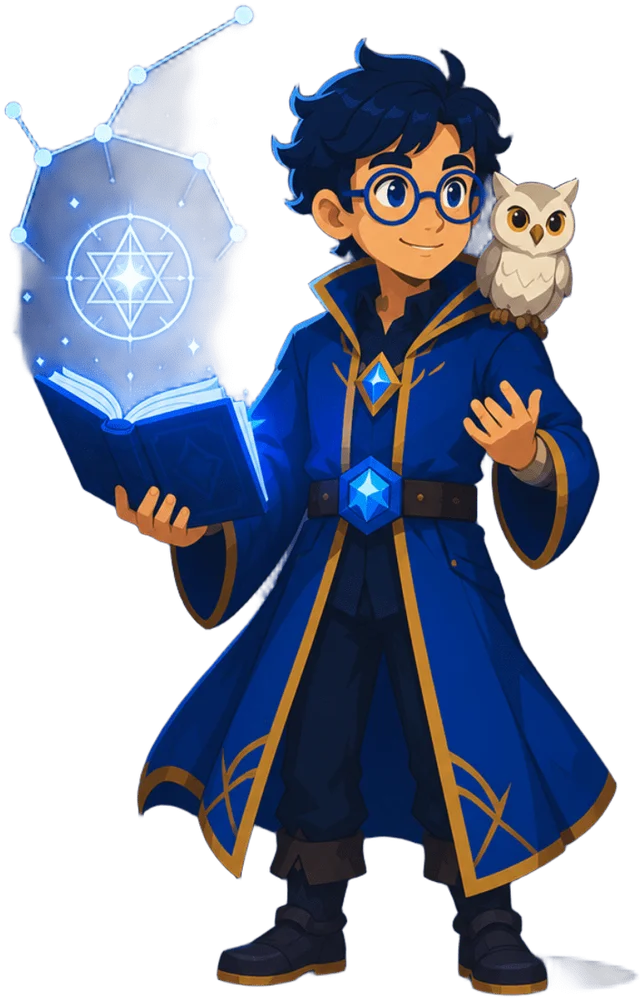
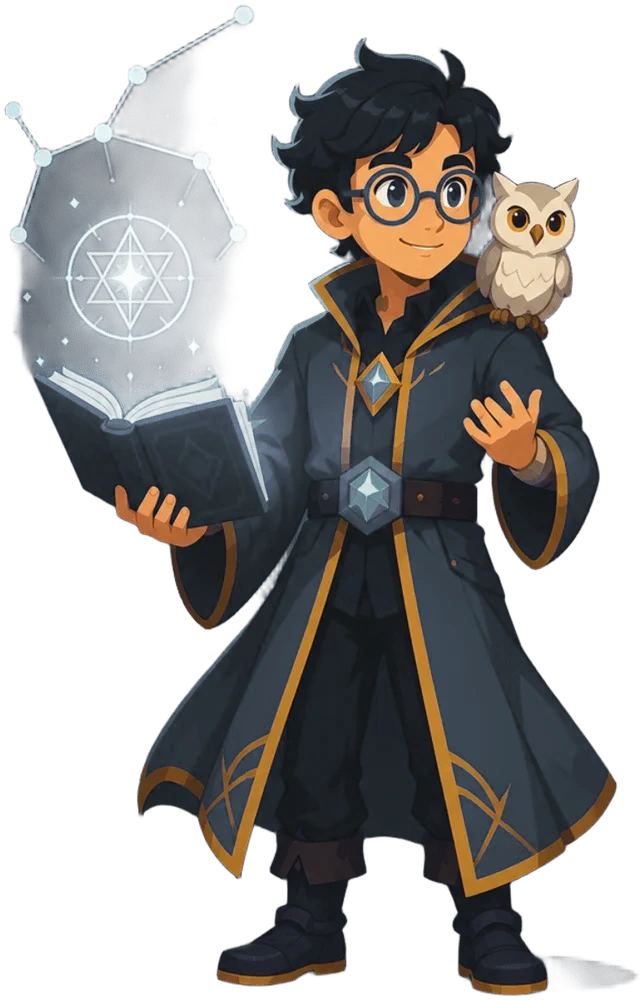
fix(guias): corrige nome/genero/etnia dos guias BrainHex e traduz labels da secao Guardioes
Os nomes dos guias (definidos em microservice/src/constants/brainHex.ts,
fonte oficial, e espelhados em api/, mobile/ e frontend/) nao combinavam
com a arte real dos personagens em genero nem em etnia/cultura sugerida
pelo visual — eram nomes greco-romanos/nordicos genericos escolhidos antes
da arte definitiva existir:

- mastermind (menino, estudioso): Atena (nome feminino) -> Idris
- seeker (menina, locs): Orion (nome masculino) -> Amara
- survivor (menino, monge oriental): Valka (tipicamente feminino) -> Kenji
- daredevil (menina, magia de fogo): Rexa (feminizacao estranha de "Rex") -> Ember
- conqueror (menina, rainha guerreira): Drako (nome masculino) -> Amina
- socializer (menino, bardo): Luma (nome de leitura feminina) -> Mateo
- achiever (menino, cavaleiro): Auri (ambiguo) -> Kwame

Corrigido em todas as fontes: microservice/src/constants/brainHex.ts
(oficial), api/app/services/personalizacao.py (_BRAINHEX_GUIDE_PERSONAS),
api/app/services/media_agents.py (_BRAINHEX_GUIDE_CONFIG), os dois prompts
estaticos (gerador_conteudo.txt, pipeline_midia_etapas.txt), os testes que
comparam esses valores, mobile/src/constants/profileImages.ts
(brainHexGuideNames) e frontend (BrainHexShowcase.tsx). O titulo do
Mastermind tambem mudou de "A Sabia das Constelacoes" para "O Sabio das
Constelacoes" (e os tracos de Analitica/Estrategica/Profunda para a forma
masculina) — era o unico titulo com genero errado, os outros ja batiam.
[…]

diff --git a/frontend/src/features/signup/brainhex.ts b/frontend/src/features/signup/brainhex.ts
@@ -215,12 +215,18 @@ export function isAllAnswered(answers: BrainHexAnswers) {
 // paleta (script com sharp: hue-shift so nos pixels do figurino/manto,
 // identificados por faixa de matiz+saturacao, preservando pele/cabelo/dourado
 // intactos) — nao o contrario. Isso foi feito para seeker, survivor,
-// conqueror e socializer. daredevil ficou de fora: na arte dela o cabelo e a
-// capa usam exatamente o mesmo laranja (mesma faixa de matiz/saturacao), e
-// tentar isolar so a capa por hue tambem pintou a pele e o efeito de fogo de
-// verde — sem uma mascara manual do figurino essa recolorizacao nao e segura
-// de automatizar, entao o badge dela ainda diverge da arte (oficial=verde,
-// arte=laranja) ate a arte ser re-gerada.
+// conqueror, socializer e mastermind (nesse ultimo o matiz ja estava certo,
+// so a saturacao precisou baixar — a arte usava um azul vivido, o oficial e
+// um azul-acinzentado quase neutro).
+//
+// daredevil e a unica excecao: na arte dela o cabelo e a capa usam
+// exatamente a mesma faixa de matiz/saturacao (o tema "fogo laranja" e
+// deliberado nos dois), e qualquer recorte automatico (por matiz, por
+// posicao, ou flood-fill por similaridade local) ou pintou a pele/efeito de
+// fogo de verde ou selecionou o personagem inteiro (a arte tem gradientes
+// suaves demais para o flood-fill parar nas bordas certas). Sem uma mascara
+// manual do figurino isso nao e seguro de automatizar — entao aqui o badge
+// segue a arte (laranja), nao o hex oficial (verde), por pedido direto.
 // Luminosidade HSL elevada apenas o suficiente para ~4.5:1 de contraste
 // contra o fundo escuro do site — matiz e saturação da cor oficial ficam
 // intactos (mesmo principio de _ensure_min_contrast em
@@ -242,7 +248,7 @@ export const PROFILES = {
   },
   survivor: {
     key: "survivor",
-    title: "Survivor (Desafiador)",
+    title: "Survivor (Sobrevivente)",
     icon: Shield,
     color: "text-[#fb0202] bg-[#fb0202]/10 border-[#fb0202]/20",
     textColor: "text-[#fb0202]",
@@ -254,10 +260,12 @@ export const PROFILES = {
     key: "daredevil",
     title: "Daredevil (Aventureiro)",
     icon: Sword,
-    color: "text-[#249024] bg-[#249024]/10 border-[#249024]/20",
-    textColor: "text-[#249024]",
-    bgColor: "bg-[#249024]",
-    cardStyle: "bg-[#249024]/10 border-[#249024]/20",
+    // Excecao: segue a cor da arte (laranja-fogo), nao o hex oficial
+    // (verde) — ver comentario acima do PROFILES.
+    color: "text-[#ec3c04] bg-[#ec3c04]/10 border-[#ec3c04]/20",
+    textColor: "text-[#ec3c04]",
+    bgColor: "bg-[#ec3c04]",
+    cardStyle: "bg-[#ec3c04]/10 border-[#ec3c04]/20",
     text: "Gosta de ação e risco. Prefere aprender por tentativa e erro, com exploração rápida e sem medo de falhar.",
   },
   mastermind: {
@@ -272,7 +280,7 @@ export const PROFILES = {
   },
   conqueror: {
     key: "conqueror",
-    title: "Conqueror (Competidor)",
+    title: "Conqueror (Conquistador)",
     icon: Crown,
     color: "text-[#018e9a] bg-[#018e9a]/10 border-[#018e9a]/20",
     textColor: "text-[#018e9a]",
@@ -282,7 +290,7 @@ export const PROFILES = {
   },
   socializer: {
     key: "socializer",
-    title: "Socializer (Colaborador)",
+    title: "Socializer (Socializador)",
     icon: Drama,
     color: "text-[#aa60ed] bg-[#aa60ed]/10 border-[#aa60ed]/20",
     textColor: "text-[#aa60ed]",
@@ -292,7 +300,7 @@ export const PROFILES = {
   },
   achiever: {
     key: "achiever",
-    title: "Achiever (Completionista)",
+    title: "Achiever (Realizador)",
     icon: Box,
     color: "text-[#ba863f] bg-[#ba863f]/10 border-[#ba863f]/20",
     textColor: "text-[#ba863f]",

diff --git a/frontend/src/components/BrainHexShowcase.tsx b/frontend/src/components/BrainHexShowcase.tsx
@@ -17,49 +17,49 @@ import daredevilArt from "@/assets/guardioes/daredevil.webp";
 // poster oficial "Os Guardioes da Trilha" fornecido pelo usuario.
 const GUIDES: Record<string, { name: string; title: string; quote: string; art: string; traits: string[] }> = {
   mastermind: {
-    name: "Atena",
-    title: "A Sábia das Constelações",
+    name: "Idris",
+    title: "O Sábio das Constelações",
     quote: "Toda pergunta certa já contém metade da resposta.",
     art: mastermindArt,
-    traits: ["Analítica", "Estratégica", "Profunda"],
+    traits: ["Analítico", "Estratégico", "Profundo"],
   },
   achiever: {
-    name: "Auri",
+    name: "Kwame",
     title: "O Cavaleiro Solar",
     quote: "Cada marco conquistado abre o próximo caminho.",
     art: achieverArt,
     traits: ["Focado", "Disciplinado", "Determinado"],
   },
   seeker: {
-    name: "Orion",
+    name: "Amara",
     title: "A Guardiã das Runas",
     quote: "Todo mapa esconde uma pergunta melhor que a resposta.",
     art: seekerArt,
     traits: ["Curiosa", "Exploradora", "Intuitiva"],
   },
   survivor: {
-    name: "Valka",
+    name: "Kenji",
     title: "O Guardião da Montanha",
     quote: "Sobreviver é ter um plano B. Redundância não é desperdício.",
     art: survivorArt,
     traits: ["Paciente", "Resiliente", "Confiável"],
   },
   conqueror: {
-    name: "Drako",
+    name: "Amina",
     title: "A Rainha da Tempestade",
     quote: "Não existe segundo lugar na sua própria jornada.",
     art: conquerorArt,
     traits: ["Líder", "Competitiva", "Determinada"],
   },
   socializer: {
-    name: "Luma",
+    name: "Mateo",
     title: "O Espírito da Aurora",
     quote: "Ninguém chega longe sozinho — nem mesmo você.",
     art: socializerArt,
     traits: ["Comunicativo", "Empático", "Inspirador"],
   },
   daredevil: {
-    name: "Rexa",
+    name: "Ember",
     title: "A Fênix do Caos",
     quote: "Hesitar é a única forma de perder.",
     art: daredevilArt,
@@ -71,6 +71,14 @@ const PROFILE_LIST = Object.values(PROFILES);
 
 function extractHex(twClass: string): string {
   return twClass.match(/#[0-9a-fA-F]{6}/)?.[0] ?? "#a78c07";
+}
+
+// "Seeker (Explorador)" -> "EXPLORADOR". A tradução PT-BR fica entre
+// parenteses no title (mesmo texto do campo `label` oficial de
+// microservice/src/constants/brainHex.ts) — usada aqui em vez do nome em
+// ingles para o rotulo do guardiao na secao publica.
+function extractPtLabel(title: string): string {
+  return (title.match(/\(([^)]+)\)/)?.[1] ?? title).toUpperCase();
 }
 
 const BrainHexShowcase = () => {
@@ -269,7 +277,7 @@ function GuardianButton({
         className="relative mt-2 text-xs sm:text-sm font-bold uppercase tracking-wide transition-colors duration-700"
         style={{ color: isActive ? color : "rgba(245,240,255,0.55)" }}
       >
-        {profile.title.split(" ")[0]}
+        {extractPtLabel(profile.title)}
       </span>
     </button>
   );

diff --git a/microservice/src/constants/brainHex.ts b/microservice/src/constants/brainHex.ts
@@ -40,7 +40,7 @@ export const BRAIN_HEX_CONFIG: Record<BrainHexProfile, BrainHexConfig> = {
     icon: Map,
     iconFocus: Telescope,
     label: "Explorador",
-    guideName: "Orion",
+    guideName: "Amara",
     gradient: "from-yellow-600/20 to-amber-900/20",
     description: "Ama descobrir novos caminhos e segredos escondidos.",
   },
@@ -49,7 +49,7 @@ export const BRAIN_HEX_CONFIG: Record<BrainHexProfile, BrainHexConfig> = {
     icon: Shield,
     iconFocus: Crosshair,
     label: "Sobrevivente",
-    guideName: "Valka",
+    guideName: "Kenji",
     gradient: "from-red-900/40 to-black",
     description: "Foca em superar desafios e proteger o que conquistou.",
   },
@@ -58,7 +58,7 @@ export const BRAIN_HEX_CONFIG: Record<BrainHexProfile, BrainHexConfig> = {
     icon: Sword,
     iconFocus: Skull,
     label: "Aventureiro",
-    guideName: "Rexa",
+    guideName: "Ember",
     gradient: "from-green-900/40 to-black",
     description: "Vive pela adrenalina e riscos calculados.",
   },
@@ -67,7 +67,7 @@ export const BRAIN_HEX_CONFIG: Record<BrainHexProfile, BrainHexConfig> = {
     icon: Compass,
     iconFocus: Brain,
     label: "Estrategista",
-    guideName: "Atena",
+    guideName: "Idris",
     gradient: "from-slate-700/40 to-slate-900/40",
     description: "Resolve problemas complexos com lógica e sabedoria.",
   },
@@ -76,7 +76,7 @@ export const BRAIN_HEX_CONFIG: Record<BrainHexProfile, BrainHexConfig> = {
     icon: Crown,
     iconFocus: ChevronRight,
     label: "Conquistador",
-    guideName: "Drako",
+    guideName: "Amina",
     gradient: "from-teal-900/40 to-black",
     description: "Busca poder, influência e vitórias gloriosas.",
   },
@@ -85,7 +85,7 @@ export const BRAIN_HEX_CONFIG: Record<BrainHexProfile, BrainHexConfig> = {
     icon: Drama,
     iconFocus: Gem,
     label: "Socializador",
-    guideName: "Luma",
+    guideName: "Mateo",
     gradient: "from-purple-900/40 to-black",
     description: "Valoriza conexões e histórias compartilhadas.",
   },
@@ -94,7 +94,7 @@ export const BRAIN_HEX_CONFIG: Record<BrainHexProfile, BrainHexConfig> = {
     icon: Box,
     iconFocus: Gem,
     label: "Realizador",
-    guideName: "Auri",
+    guideName: "Kwame",
     gradient: "from-orange-900/40 to-black",
     description: "Adora completar coleções e atingir metas.",
   },

diff --git a/mobile/src/constants/profileImages.ts b/mobile/src/constants/profileImages.ts
@@ -233,13 +233,13 @@ export const getBrainHexConfig = (profileName?: string) => {
 };
 
 export const brainHexGuideNames: Record<BrainHexProfile, string> = {
-  seeker: "Orion",
-  survivor: "Valka",
-  daredevil: "Rexa",
-  mastermind: "Atena",
-  conqueror: "Drako",
-  socializer: "Luma",
-  achiever: "Auri",
+  seeker: "Amara",
+  survivor: "Kenji",
+  daredevil: "Ember",
+  mastermind: "Idris",
+  conqueror: "Amina",
+  socializer: "Mateo",
+  achiever: "Kwame",
 };
 
 export const getBrainHexGuideName = (profileName?: string | null): string => {

diff --git a/api/app/services/media_agents.py b/api/app/services/media_agents.py
@@ -191,13 +191,13 @@ async def gerar_roteiro_video_llm(
 # ---------------------------------------------------------------------------
 
 _BRAINHEX_GUIDE_CONFIG: dict[str, dict[str, str]] = {
-    "mastermind": {"guia_nome": "Atena",  "guia_voz": "Charon", "guia_cor": "#707c88", "framing": "Arquitetura do Conceito",   "label": "Estrategista"},
-    "seeker":     {"guia_nome": "Orion",  "guia_voz": "Puck",   "guia_cor": "#a78c07", "framing": "Crônicas da Exploração",    "label": "Explorador"},
-    "survivor":   {"guia_nome": "Valka",  "guia_voz": "Fenrir", "guia_cor": "#720101", "framing": "Diretrizes de Campo",       "label": "Sobrevivente"},
-    "daredevil":  {"guia_nome": "Rexa",   "guia_voz": "Zephyr", "guia_cor": "#1b6b1b", "framing": "Código de Impacto",         "label": "Aventureiro"},
-    "conqueror":  {"guia_nome": "Drako",  "guia_voz": "Kore",   "guia_cor": "#01808b", "framing": "Tratado de Soberania",      "label": "Conquistador"},
-    "socializer": {"guia_nome": "Luma",   "guia_voz": "Kore",   "guia_cor": "#6d15be", "framing": "Elo da Comunidade",         "label": "Socializador"},
-    "achiever":   {"guia_nome": "Auri",   "guia_voz": "Puck",   "guia_cor": "#ad6002", "framing": "Caminho da Maestria",       "label": "Realizador"},
+    "mastermind": {"guia_nome": "Idris",  "guia_voz": "Charon", "guia_cor": "#707c88", "framing": "Arquitetura do Conceito",   "label": "Estrategista"},
+    "seeker":     {"guia_nome": "Amara",  "guia_voz": "Puck",   "guia_cor": "#a78c07", "framing": "Crônicas da Exploração",    "label": "Explorador"},
+    "survivor":   {"guia_nome": "Kenji",  "guia_voz": "Fenrir", "guia_cor": "#720101", "framing": "Diretrizes de Campo",       "label": "Sobrevivente"},
+    "daredevil":  {"guia_nome": "Ember",  "guia_voz": "Zephyr", "guia_cor": "#1b6b1b", "framing": "Código de Impacto",         "label": "Aventureiro"},
+    "conqueror":  {"guia_nome": "Amina",  "guia_voz": "Kore",   "guia_cor": "#01808b", "framing": "Tratado de Soberania",      "label": "Conquistador"},
+    "socializer": {"guia_nome": "Mateo",  "guia_voz": "Kore",   "guia_cor": "#6d15be", "framing": "Elo da Comunidade",         "label": "Socializador"},
+    "achiever":   {"guia_nome": "Kwame",  "guia_voz": "Puck",   "guia_cor": "#ad6002", "framing": "Caminho da Maestria",       "label": "Realizador"},
 }
 
 

diff --git a/api/tests/test_media_pipeline.py b/api/tests/test_media_pipeline.py
@@ -35,7 +35,7 @@ def _context(perfil_dominante: str = "seeker") -> MediaPipelineContext:
     return MediaPipelineContext(
         state={
             "topico_contexto": {"nome": "SPD", "descricao": "Fundamentos de sistemas distribuídos"},
-            "perfil_editorial": {"guia_voz": "Puck", "guia_nome": "Orion"},
+            "perfil_editorial": {"guia_voz": "Puck", "guia_nome": "Amara"},
             "perfil_brainhex": [{"perfil": perfil_dominante, "afinidade": 0.9}],
             "perfil_dominante": perfil_dominante,
         },
@@ -123,7 +123,7 @@ async def test_slides_pipeline_normalize_new_schema() -> None:
                     "topics": ["Pista 1", "Pista 2"],
                     "explanation": "Insight da Jornada sobre o tema",
                     "visualDescription": "Mapa com trilha luminosa",
-                    "characterQuote": "Orion diz: siga a estrela guia",
+                    "characterQuote": "Amara diz: siga a estrela guia",
                     "characterAction": "explaining",
                     "imagePrompt": "2D magical glowing compass in forest",
                     "sourceIds": ["src-1", "src-2"],
@@ -138,7 +138,7 @@ async def test_slides_pipeline_normalize_new_schema() -> None:
     assert slide["titulo"] == "Conceito Central"
     assert slide["topics"] == ["Pista 1", "Pista 2"]
     assert slide["characterAction"] == "explaining"
-    assert slide["characterQuote"] == "Orion diz: siga a estrela guia"
+    assert slide["characterQuote"] == "Amara diz: siga a estrela guia"
     assert slide["imagePrompt"] == "2D magical glowing compass in forest"
     assert slide["sourceIds"] == ["src-1", "src-2"]
     assert "pontos" not in slide

diff --git a/api/app/services/personalizacao.py b/api/app/services/personalizacao.py
@@ -222,43 +222,43 @@ _BRAINHEX_EDITORIAL_SIGNATURES: dict[str, dict[str, Any]] = {
 
 _BRAINHEX_GUIDE_PERSONAS: dict[str, dict[str, str]] = {
     "Mastermind": {
-        "guia_nome": "Atena",
+        "guia_nome": "Idris",
         "guia_voz": "Charon",
         "guia_cor": "#707c88",
         "framing_narrativo": "Arquitetura do Conceito",
     },
     "Seeker": {
-        "guia_nome": "Orion",
+        "guia_nome": "Amara",
         "guia_voz": "Puck",
         "guia_cor": "#a78c07",
         "framing_narrativo": "Crônicas da Exploração",
     },
     "Survivor": {
-        "guia_nome": "Valka",
+        "guia_nome": "Kenji",
         "guia_voz": "Fenrir",
         "guia_cor": "#720101",
         "framing_narrativo": "Diretrizes de Campo",
     },
     "Daredevil": {
-        "guia_nome": "Rexa",
+        "guia_nome": "Ember",
         "guia_voz": "Zephyr",
         "guia_cor": "#1b6b1b",
         "framing_narrativo": "Código de Impacto",
     },
     "Conqueror": {
-        "guia_nome": "Drako",
+        "guia_nome": "Amina",
         "guia_voz": "Kore",
         "guia_cor": "#01808b",
         "framing_narrativo": "Tratado de Soberania",
     },
     "Socialiser": {
-        "guia_nome": "Luma",
+        "guia_nome": "Mateo",
         "guia_voz": "Kore",
         "guia_cor": "#6d15be",
         "framing_narrativo": "Elo da Comunidade",
     },
     "Achiever": {
-        "guia_nome": "Auri",
+        "guia_nome": "Kwame",
         "guia_voz": "Puck",
         "guia_cor": "#ad6002",
         "framing_narrativo": "Caminho da Maestria",

diff --git a/api/tests/test_personalizacao_service.py b/api/tests/test_personalizacao_service.py
@@ -1996,13 +1996,13 @@ def test_guide_persona_campos_presentes_por_perfil() -> None:
     from app.services.personalizacao import _build_profile_editorial_context
 
     casos = [
-        ("Seeker", "Orion", "Puck", "#a78c07", "Crônicas da Exploração"),
-        ("Survivor", "Valka", "Fenrir", "#720101", "Diretrizes de Campo"),
-        ("Daredevil", "Rexa", "Zephyr", "#1b6b1b", "Código de Impacto"),
-        ("Mastermind", "Atena", "Charon", "#707c88", "Arquitetura do Conceito"),
-        ("Conqueror", "Drako", "Kore", "#01808b", "Tratado de Soberania"),
-        ("Socialiser", "Luma", "Kore", "#6d15be", "Elo da Comunidade"),
-        ("Achiever", "Auri", "Puck", "#ad6002", "Caminho da Maestria"),
+        ("Seeker", "Amara", "Puck", "#a78c07", "Crônicas da Exploração"),
+        ("Survivor", "Kenji", "Fenrir", "#720101", "Diretrizes de Campo"),
+        ("Daredevil", "Ember", "Zephyr", "#1b6b1b", "Código de Impacto"),
+        ("Mastermind", "Idris", "Charon", "#707c88", "Arquitetura do Conceito"),
+        ("Conqueror", "Amina", "Kore", "#01808b", "Tratado de Soberania"),
+        ("Socialiser", "Mateo", "Kore", "#6d15be", "Elo da Comunidade"),
+        ("Achiever", "Kwame", "Puck", "#ad6002", "Caminho da Maestria"),
     ]
     for perfil, guia, voz, cor, framing in casos:
         result = _build_profile_editorial_context(perfil, [])

diff --git a/api/tests/test_brainhex_generation.py b/api/tests/test_brainhex_generation.py
@@ -62,7 +62,7 @@ async def test_gerar_conteudo_brainhex_parses_api_response(settings, conteudo_es
                 "topics": ["Consistência", "Disponibilidade"],
                 "explanation": "Síntese Técnica: O teorema CAP...",
                 "visualDescription": "Diagrama de três engrenagens interligadas.",
-                "characterQuote": "Atena: 'A lógica revela padrões ocultos.'",
+                "characterQuote": "Idris: 'A lógica revela padrões ocultos.'",
                 "characterAction": "explaining",
                 "imagePrompt": "Three gears representing CAP theorem, magical alchemy style",
                 "sourceIds": [],
